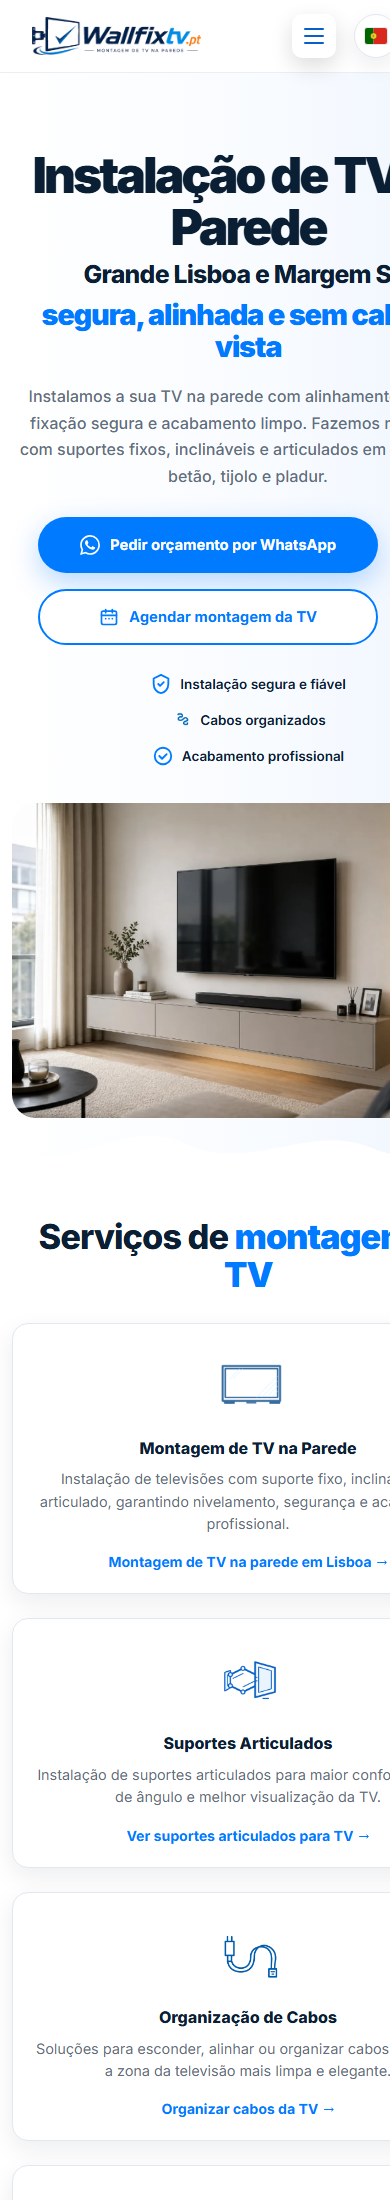
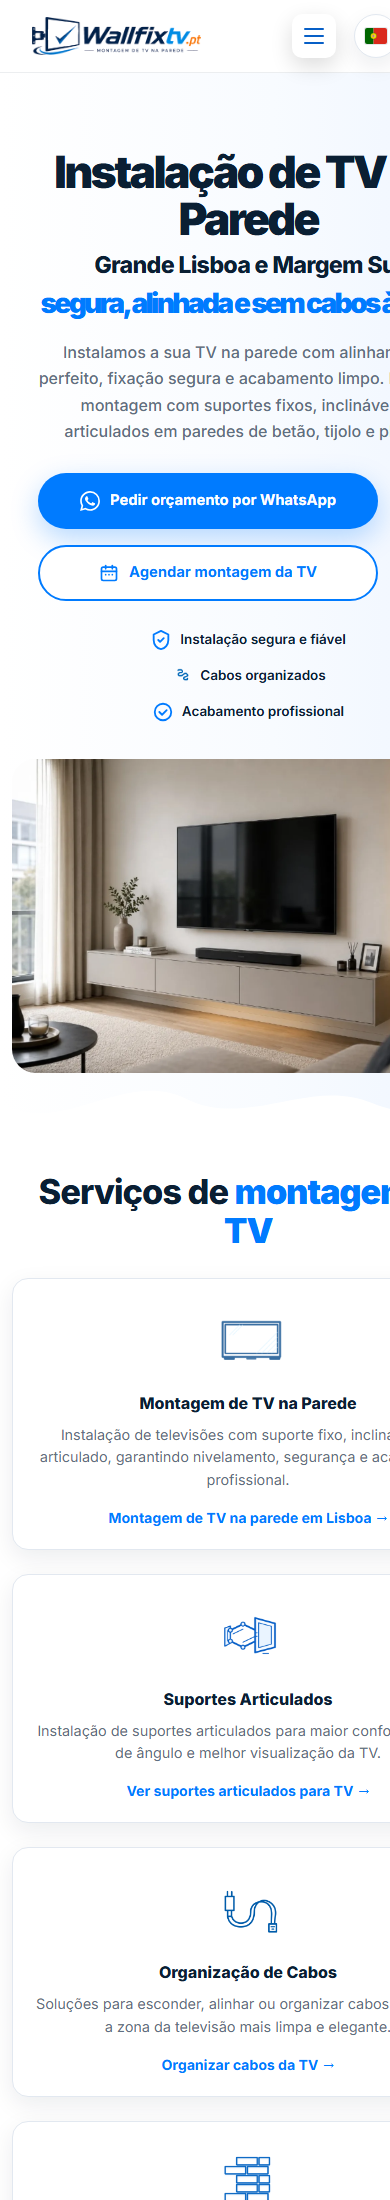
Refina hierarquia do hero e centragem no mobile.

diff --git a/styles.css b/styles.css
@@ -529,6 +529,11 @@ button {
   color: var(--navy);
 }
 
+.hero h1,
+.hero-copy h1 {
+  text-align: left;
+}
+
 .hero-copy h1,
 .hero-subtitle {
   max-width: 760px;
@@ -537,7 +542,7 @@ button {
 .hero-location {
   display: block;
   margin-top: 10px;
-  font-size: clamp(1.25rem, 3vw, 2.1rem);
+  font-size: clamp(1.15rem, 2.8vw, 2rem);
   line-height: 1.12;
   font-weight: 800;
   letter-spacing: -0.03em;
@@ -546,11 +551,10 @@ button {
 
 .hero-highlight {
   display: block;
-  margin-top: 14px;
-  font-size: clamp(1.35rem, 3.6vw, 2.4rem);
+  margin-top: 12px;
+  font-size: clamp(1.35rem, 3.5vw, 2.4rem);
   line-height: 1.12;
   font-weight: 900;
-  letter-spacing: -0.04em;
   color: var(--blue);
 }
 
@@ -1603,10 +1607,13 @@ button {
     max-width: 760px;
     margin-inline: auto;
     padding-top: 0;
+    text-align: center;
   }
 
+  .hero h1,
   .hero-copy h1,
   .hero-subtitle {
+    text-align: center;
     margin-inline: auto;
   }
 
@@ -1701,8 +1708,17 @@ button {
 
   .service-card,
   .article-card,
-  .support-card {
+  .support-card,
+  .why-item {
     text-align: center;
+    margin-inline: auto;
+    width: 100%;
+    max-width: 430px;
+  }
+
+  .section-heading {
+    text-align: center;
+    margin-inline: auto;
   }
 
   .service-card .btn,
@@ -1768,19 +1784,20 @@ button {
     padding-top: 42px;
   }
 
+  .hero h1,
   .hero-copy h1 {
-    font-size: clamp(2.1rem, 10vw, 3.2rem);
-    line-height: 1.05;
+    font-size: clamp(2rem, 9vw, 3rem);
+    line-height: 1.06;
     text-align: center;
   }
 
   .hero-location {
-    font-size: clamp(1.05rem, 6vw, 1.55rem);
+    font-size: clamp(1.05rem, 5.5vw, 1.45rem);
     margin-top: 8px;
   }
 
   .hero-highlight {
-    font-size: clamp(1.15rem, 6.5vw, 1.8rem);
+    font-size: clamp(1.15rem, 6vw, 1.75rem);
     margin-top: 10px;
   }
 
@@ -1788,11 +1805,13 @@ button {
     text-align: center;
     font-size: 1rem;
     line-height: 1.65;
+    max-width: 420px;
   }
 
   .hero-actions {
     flex-direction: column;
     align-items: stretch;
+    width: 100%;
     max-width: 420px;
     margin-inline: auto;
   }
@@ -1800,6 +1819,7 @@ button {
   .hero-actions .btn {
     width: 100%;
     min-height: 56px;
+    justify-content: center;
     text-align: center;
   }
 